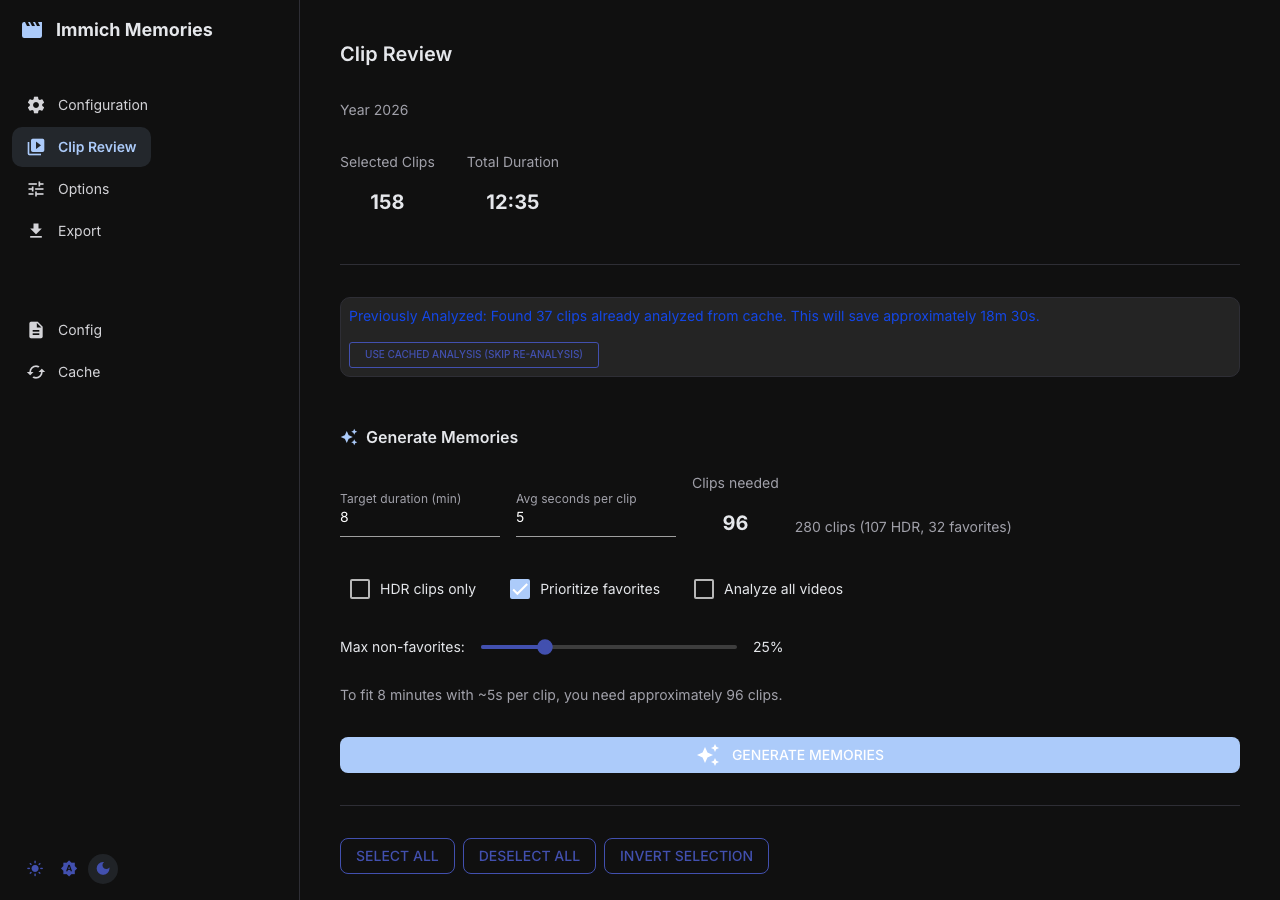
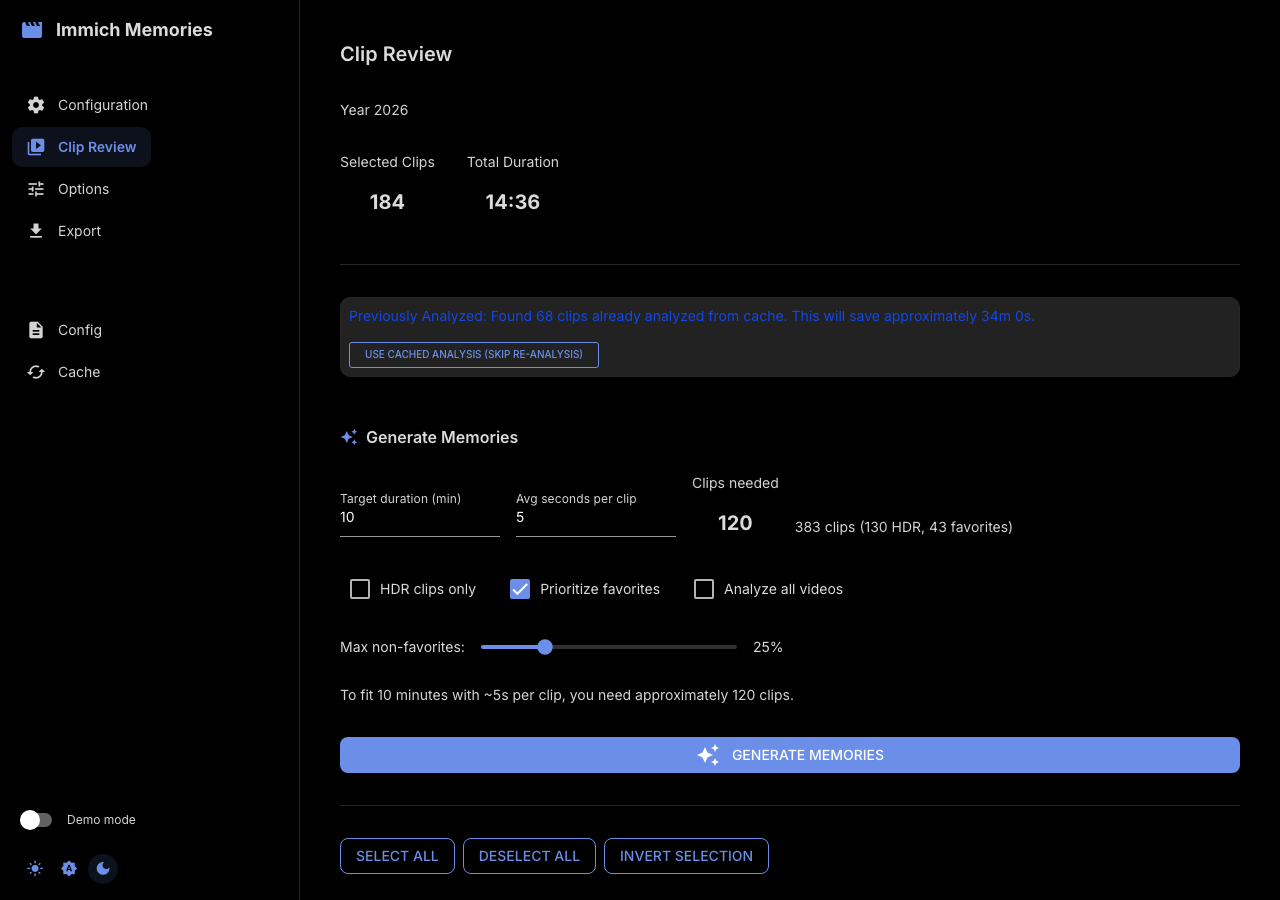
fix(e2e): demo mode on all screenshots + remove old duplicates
- Call _before_screenshot() (demo mode + redaction) before every save
- Scroll to top before looking for Continue button (dark mode fix)
- Delete old inconsistently-named screenshots from TS script era

diff --git a/tests/e2e/test_screenshots.py b/tests/e2e/test_screenshots.py
@@ -40,7 +40,11 @@ def _save(page: Page, screenshot_dir: Path, name: str) -> None:
 def _wait_for_ready(page: Page) -> None:
     page.wait_for_load_state("networkidle")
     page.wait_for_timeout(1500)
+
+
+def _before_screenshot(page: Page) -> None:
     enable_demo_mode(page)
+    redact_page(page)
 
 
 @pytest.mark.parametrize("theme", _THEMES)
@@ -63,8 +67,7 @@ def test_capture_all_screenshots(
     # ── Step 1: Configuration ──
     page.goto(app_url)
     _wait_for_ready(page)
-    enable_demo_mode(page)
-    redact_page(page)
+    _before_screenshot(page)
     _save(page, screenshot_dir, _name("step1-config-connected", theme))
 
     # Preset cards (scroll down to show them)
@@ -72,13 +75,13 @@ def test_capture_all_screenshots(
     if year_preset.is_visible():
         year_preset.scroll_into_view_if_needed()
         page.wait_for_timeout(300)
-        redact_page(page)
+        _before_screenshot(page)
         _save(page, screenshot_dir, _name("step1-preset-cards", theme))
 
         # Click to show selected state
         year_preset.click()
         page.wait_for_timeout(500)
-        redact_page(page)
+        _before_screenshot(page)
         _save(page, screenshot_dir, _name("step1-preset-selected", theme))
 
     # Person dropdown
@@ -86,6 +89,7 @@ def test_capture_all_screenshots(
     if person_combo.is_visible():
         person_combo.click()
         page.wait_for_timeout(500)
+        enable_demo_mode(page)
         redact_person_names(page)
         _save(page, screenshot_dir, _name("step1-person-dropdown", theme))
 
@@ -103,9 +107,9 @@ def test_capture_all_screenshots(
         cache_button.scroll_into_view_if_needed()
         cache_button.click()
         page.wait_for_timeout(500)
-        redact_page(page)
         page.evaluate("window.scrollTo(0, document.body.scrollHeight)")
         page.wait_for_timeout(300)
+        _before_screenshot(page)
         _save(page, screenshot_dir, _name("step1-cache-panel", theme))
 
     # ── Step 2: Clip Review ──
@@ -134,6 +138,7 @@ def test_capture_all_screenshots(
         page.wait_for_selector('button:has-text("clips")', timeout=30_000)
     except Exception:
         pass  # May not have clips, screenshot anyway
+    _before_screenshot(page)
     _save(page, screenshot_dir, _name("step2-clip-review", theme))
 
     # Expand first month
@@ -143,6 +148,7 @@ def test_capture_all_screenshots(
         month_button.click()
         page.wait_for_timeout(1000)
         month_button.scroll_into_view_if_needed()
+        _before_screenshot(page)
         _save(page, screenshot_dir, _name("step2-clip-grid", theme))
 
     # Refine Moments
@@ -151,17 +157,20 @@ def test_capture_all_screenshots(
         refine_btn.scroll_into_view_if_needed()
         refine_btn.click()
         _wait_for_ready(page)
+        _before_screenshot(page)
         _save(page, screenshot_dir, _name("step2-refine-moments", theme))
 
     # ── Step 3: Generation Options ──
-    page.evaluate("window.scrollTo(0, document.body.scrollHeight)")
-    page.wait_for_timeout(300)
+    page.evaluate("window.scrollTo(0, 0)")
+    page.wait_for_timeout(500)
     continue_btn = page.get_by_role("button", name="Continue to Generation")
-    if continue_btn.is_visible(timeout=5000):
+    if continue_btn.is_visible(timeout=10_000):
         continue_btn.scroll_into_view_if_needed()
+        page.wait_for_timeout(300)
         continue_btn.click()
         page.wait_for_url("**/step3", timeout=30_000)
         _wait_for_ready(page)
+        _before_screenshot(page)
         _save(page, screenshot_dir, _name("step3-options", theme))
 
     # ── Step 4: Preview & Export ──
@@ -171,5 +180,5 @@ def test_capture_all_screenshots(
         next4_btn.click()
         page.wait_for_url("**/step4", timeout=30_000)
         _wait_for_ready(page)
-        redact_page(page)
+        _before_screenshot(page)
         _save(page, screenshot_dir, _name("step4-preview-export", theme))
